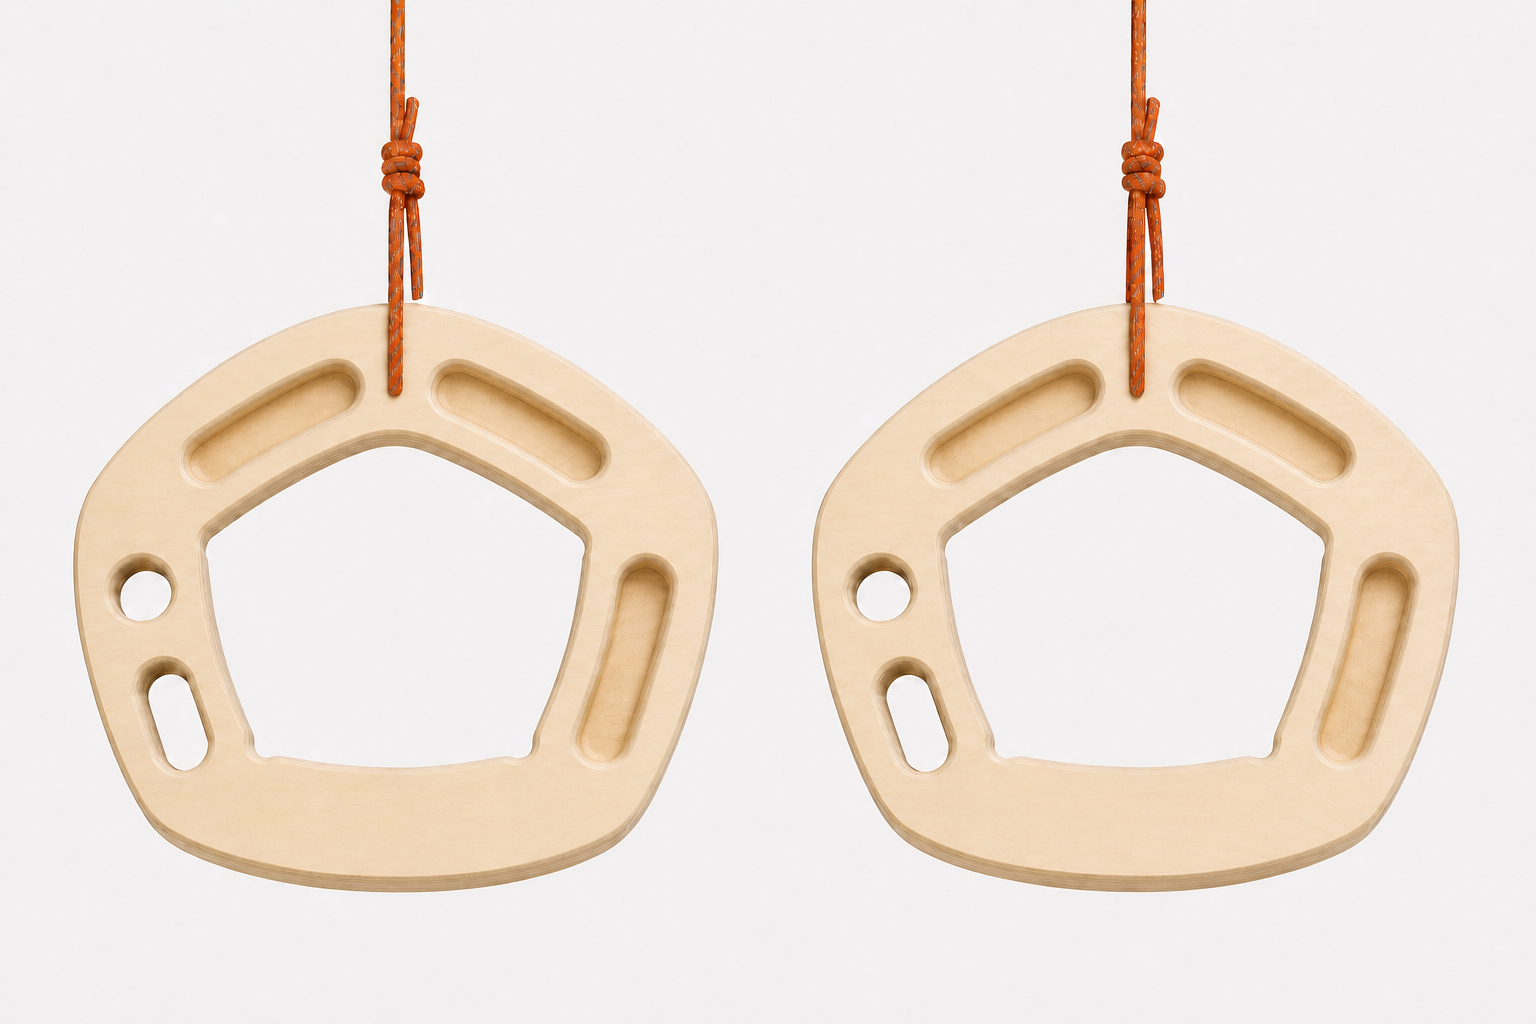
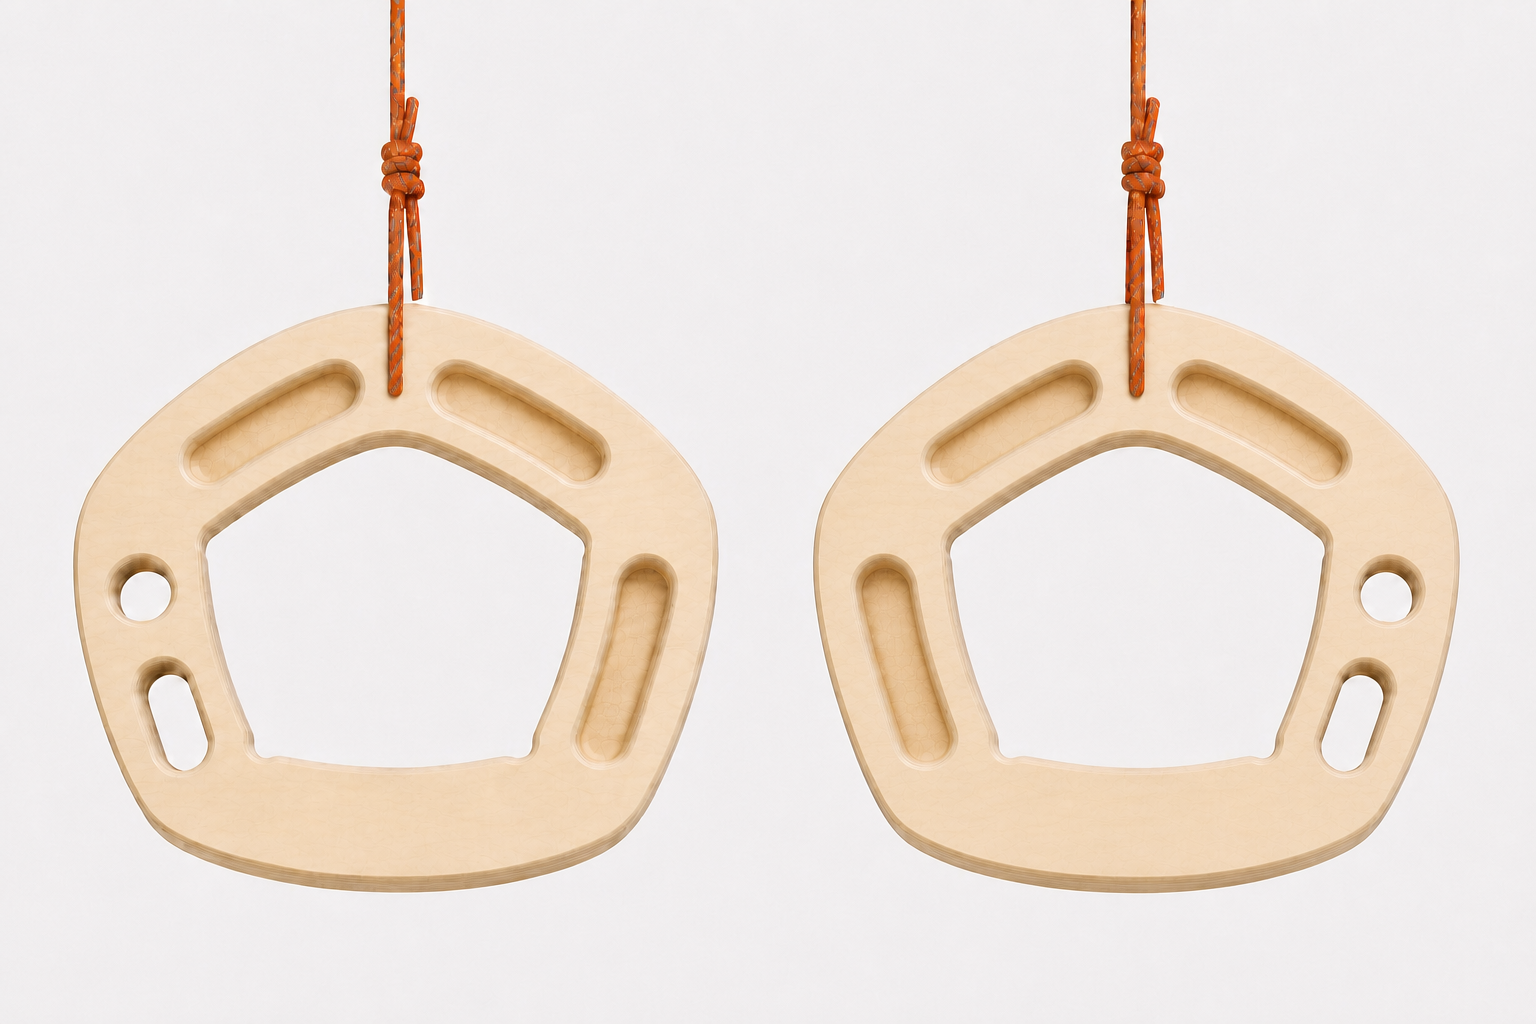
Fix Penta Evo mirrored presentation

diff --git a/docs/source-audits/2026-08-20-complete-hangboard-catalog.md b/docs/source-audits/2026-08-20-complete-hangboard-catalog.md
@@ -1269,8 +1269,19 @@ and the official paired-front packshot as the authoritative construction
 reference. It restored exactly two separated upper recesses per unit while
 keeping the unsupported lower pockets absent. The accepted `primary.png` is
 1536 × 1024, ratio 1.5, SHA-256
[2 lines of base64/hex data omitted]
 It is NON-evidence and was not geometrically processed after generation.
+
+Task 12 rejected the earlier accepted asset because it rendered both units in
+the same handed orientation while the official paired-front packshot and the
+canonical right-unit paths are exact horizontal mirrors. A built-in image edit
+was interrupted after it had written the replacement asset but before its tool
+result and verbatim prompt were recorded. The replacement was preserved rather
+than regenerated: manual original-resolution review confirmed that the circular
+mono and vertical duo now occupy the outer side of each unit, the tall side
+recess occupies the inner side of each unit, and the two upper recesses remain
+separated by solid apex wood. The exact interrupted prompt is therefore
+unavailable and is deliberately not reconstructed here.
 
 Generation and correction history (verbatim primary requests; the first three
 requests yielded superseded intermediate assets):
@@ -1281,8 +1292,9 @@ requests yielded superseded intermediate assets):
 
 > Remove only the two invented horizontal rounded-rectangle recesses at the very bottom, one from each unit. Fill those areas seamlessly with matching pale laminated wood. Keep the broad curved lower inner edge of each pentagonal opening unobstructed and readable as the tray contact, exactly as in Image 2.
 
-The merge request above produced a rejected intermediate, not the accepted
-asset. Final accepted correction prompt (verbatim):
+The merge request above produced a rejected intermediate. The following was
+the previously accepted correction prompt (verbatim), later superseded by the
+interrupted Task 12 edit:
 
 > Use case: precise-object-edit
 >
@@ -1331,5 +1343,14 @@ full Workbench suite passed. An interactive Workbench browser inspection was
 attempted, but this workspace exposed no connected in-app or extension browser;
 the temporary localhost listener was stopped and its port verified closed.
 
-Catalog-wide iOS simulator normal/active/hit-test inspection remains assigned
-to Task 12; this audit makes no simulator-review claim.
+Task 12's Penta Evo follow-up installed the signed Debug app on a
+workspace-owned iPhone 15 simulator running iOS 26.3. The board-specific
+step editor exposed all 14 expected accessibility targets; all 14 accepted
+automated taps. Manual original-resolution inspection of both the normal and
+all-active states confirmed that the mirrored right-unit overlays align with
+the corrected visible recesses without clipping. The installed primary asset
+matched SHA-256
[1 lines of base64/hex data omitted]
+The exact simulator and all workspace-owned validation artifacts were deleted
+after review, and their absence was verified. Catalog-wide completion of the
+remaining Task 12 boards is tracked separately.
